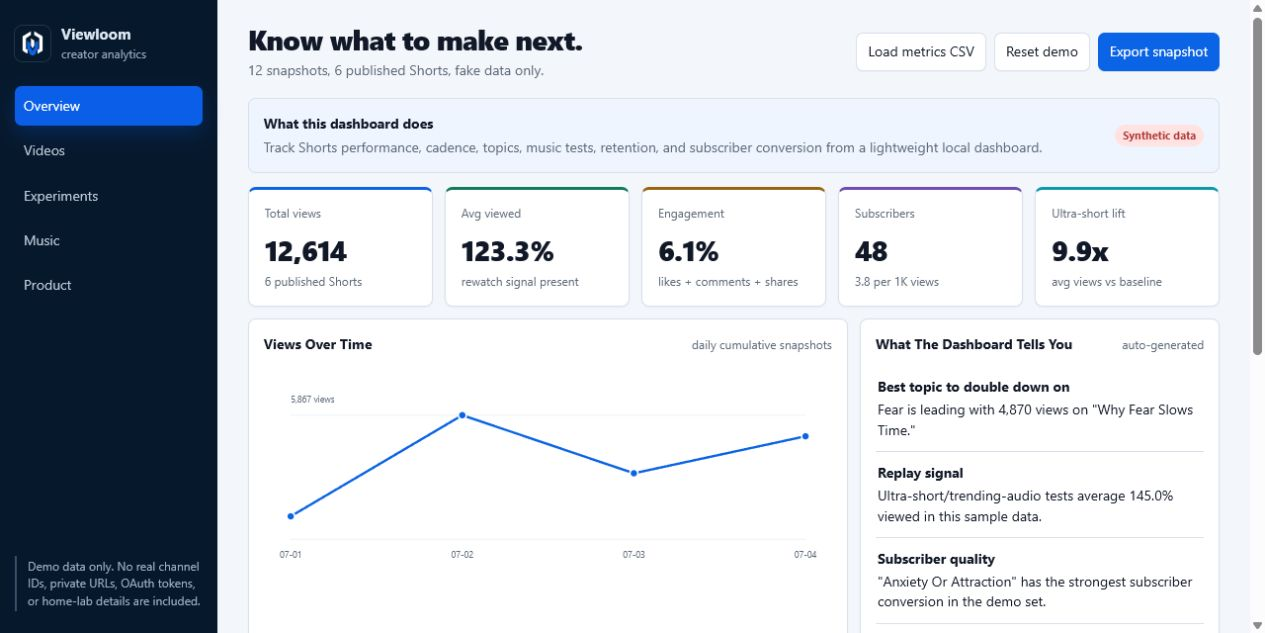
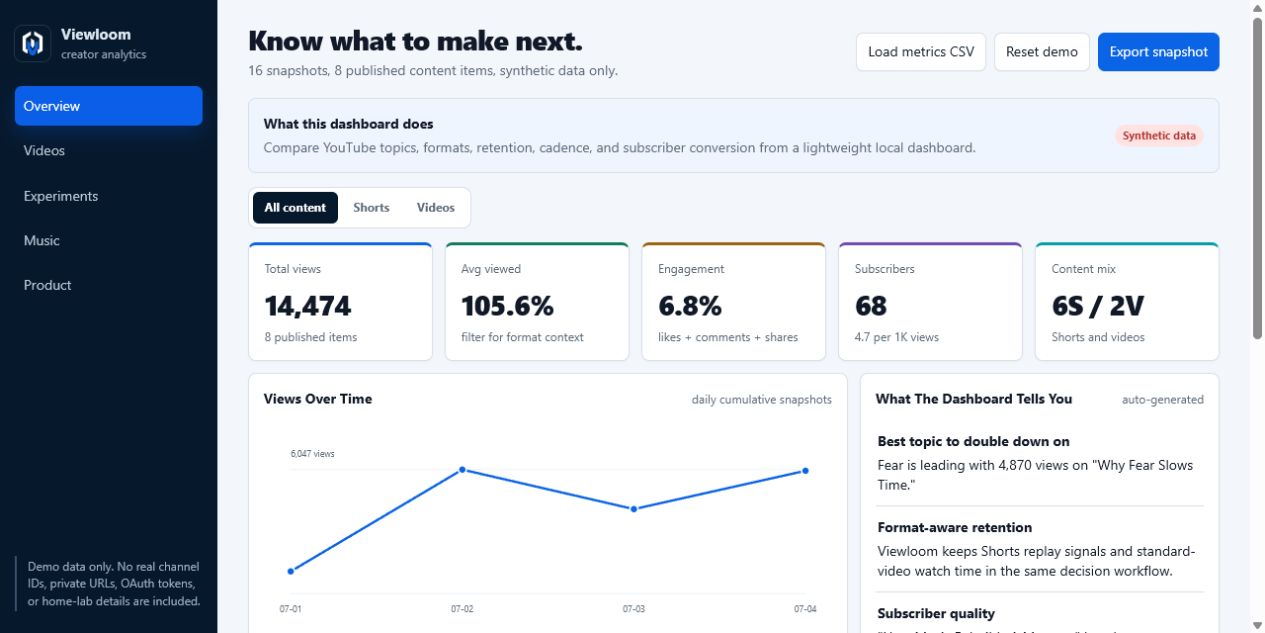
Support Shorts and standard YouTube videos

diff --git a/dashboard/index.html b/dashboard/index.html
@@ -128,6 +128,9 @@
     .kpi-sub { margin-top: 3px; color: var(--muted); font-size: 12px; }
     .tabs { display: none; }
     .tabs.active { display: block; }
+    .content-filter { display: flex; gap: 4px; width: fit-content; margin: 0 0 14px; padding: 4px; border: 1px solid var(--line); border-radius: 9px; background: var(--panel); }
+    .filter-btn { border: 0; border-radius: 6px; padding: 7px 12px; background: transparent; color: var(--muted); cursor: pointer; font-size: 12px; font-weight: 720; }
+    .filter-btn.active { background: var(--nav); color: #fff; }
     table { width: 100%; border-collapse: collapse; font-variant-numeric: tabular-nums; }
     th, td { padding: 10px 11px; border-bottom: 1px solid var(--line); text-align: right; white-space: nowrap; }
     th:first-child, td:first-child, th:nth-child(2), td:nth-child(2) { text-align: left; }
@@ -203,6 +206,8 @@
       .kpi { flex: 0 0 min(78vw, 260px); scroll-snap-align: start; }
       .repo-callout { padding: 13px; }
       .repo-callout .pill { display: none; }
+      .content-filter { width: 100%; }
+      .filter-btn { flex: 1; }
       .bar-row { grid-template-columns: minmax(100px, .9fr) minmax(70px, 1fr) 58px; gap: 7px; }
       .sparkline { height: 190px; min-width: 520px; }
       #trendChart { overflow-x: auto; }
@@ -235,7 +240,7 @@
       <header>
         <div>
           <h1>Know what to make next.</h1>
-          <div class="subtitle" id="subtitle">Demo dashboard using fake Shorts data.</div>
+          <div class="subtitle" id="subtitle">Demo dashboard using synthetic YouTube data.</div>
         </div>
         <div class="actions">
           <label class="file-label">
@@ -250,10 +255,16 @@
       <section class="repo-callout">
         <div>
           <strong>What this dashboard does</strong>
-          <p>Track Shorts performance, cadence, topics, music tests, retention, and subscriber conversion from a lightweight local dashboard.</p>
+          <p>Compare YouTube topics, formats, retention, cadence, and subscriber conversion from a lightweight local dashboard.</p>
         </div>
         <div><span class="pill hot">Synthetic data</span></div>
       </section>
+
+      <div class="content-filter" role="group" aria-label="Content type">
+        <button class="filter-btn active" data-content-filter="all">All content</button>
+        <button class="filter-btn" data-content-filter="short">Shorts</button>
+        <button class="filter-btn" data-content-filter="video">Videos</button>
+      </div>
 
       <section id="overview" class="tabs active">
         <div class="grid kpis" id="kpis"></div>
@@ -280,7 +291,7 @@
             <table>
               <thead>
                 <tr>
-                  <th>ID</th><th>Title</th><th>Status</th><th>Views</th><th>Likes</th><th>Comments</th><th>Subs</th><th>Avg viewed</th><th>Format</th><th>Track</th>
+                  <th>ID</th><th>Title</th><th>Content</th><th>Status</th><th>Views</th><th>Likes</th><th>Comments</th><th>Subs</th><th>Avg viewed</th><th>Format</th><th>Track</th>
                 </tr>
               </thead>
               <tbody id="videoRows"></tbody>
@@ -298,7 +309,7 @@
           <div class="panel pad">
             <div class="panel-head"><h2>Test Hypothesis</h2><span class="note">experiment framework</span></div>
             <div class="insights">
-              <div class="insight"><strong>Ultra-short format</strong><span>Compare 6-8 second text-first/trending-audio Shorts against 12-15 second narration-first baselines.</span></div>
+              <div class="insight"><strong>Format comparison</strong><span>Compare Shorts and standard videos, then isolate length, presentation, hook, and narration experiments within each format.</span></div>
               <div class="insight"><strong>Subscriber conversion</strong><span>Track subscribers gained per 1,000 views instead of only celebrating raw views.</span></div>
               <div class="insight"><strong>Decision support</strong><span>The product does not promise virality; it helps creators see which formats deserve more production volume.</span></div>
             </div>
@@ -315,7 +326,7 @@
           <div class="panel pad">
             <div class="panel-head"><h2>Audio Notes</h2><span class="note">privacy boundary</span></div>
             <div class="insights">
-              <div class="insight"><strong>Trending audio is user-supplied</strong><span>The dashboard tracks track names and outcomes. It does not scrape or bypass the Shorts mobile sound picker.</span></div>
+              <div class="insight"><strong>Audio metadata is user-supplied</strong><span>Track music, narration, and presentation choices without scraping or bypassing YouTube publishing tools.</span></div>
               <div class="insight"><strong>Voice clarity matters</strong><span>Track whether narration stayed clean, masked, or text-only so the creator can compare audio strategies.</span></div>
             </div>
           </div>
@@ -346,15 +357,18 @@
   </div>
 
   <script>
-    const ledgerCsv = `id,status,pillar,title,hook,publish_date,platform_url,length_seconds,format_type,music_type,track_name,track_mood,voice_audibility,cta_variant,notes
-EX-001,published,Human behavior,Why Silence Feels Loud,Silence feels awkward because your brain expects rhythm.,2026-07-01,https://youtube.com/shorts/EXAMPLE001,14,narration_baseline,none,,baseline,clean,question_first,No-music narration baseline.
-EX-002,published,Memory,Why Old Songs Hit Hard,One song can pull a memory back instantly.,2026-07-01,https://youtube.com/shorts/EXAMPLE002,8,ultra_short_trending_audio,trending_youtube_audio,Example Trend 01,nostalgic,clean,follow_daily,Ultra-short trend test.
-EX-003,published,Relationships,Anxiety Or Attraction,A racing heart is not always romance.,2026-07-01,https://youtube.com/shorts/EXAMPLE003,7,ultra_short_trending_audio,trending_youtube_audio,Example Trend 02,romantic tension,text_only,weird_facts,Text-first ultra-short.
-EX-004,published,Intuition,Your Gut Feeling Is Fast Math,Your brain can notice patterns before you explain them.,2026-07-02,https://youtube.com/shorts/EXAMPLE004,15,narration_baseline,royalty_free,Example Library Track,curious,clean,question_first,Longer narration comparison.
-EX-005,published,Body language,Why Eye Contact Feels Intense,Your brain treats eyes as social information.,2026-07-02,https://youtube.com/shorts/EXAMPLE005,8,ultra_short_trending_audio,trending_youtube_audio,Example Trend 01,social tension,clean,follow_daily,Same track as EX-002.
-EX-006,published,Fear,Why Fear Slows Time,Fear can make your brain record more detail.,2026-07-03,https://youtube.com/shorts/EXAMPLE006,7,ultra_short_trending_audio,trending_youtube_audio,Example Trend 03,dark pulse,text_only,weird_facts,Fast caption loop test.
-EX-007,scheduled,Social behavior,Why Compliments Feel Weird,A compliment can clash with how you see yourself.,2026-07-04,,8,ultra_short_trending_audio,trending_youtube_audio,,warm,clean,follow_daily,Ready for publishing.
-EX-008,draft,Memory,Why Smells Unlock Memories,A scent can bring back a place instantly.,,,8,ultra_short_trending_audio,trending_youtube_audio,,nostalgic,clean,question_first,Draft idea.`;
+    const ledgerCsv = `id,content_type,status,pillar,title,hook,publish_date,platform_url,length_seconds,format_type,music_type,track_name,track_mood,voice_audibility,cta_variant,notes
+EX-001,short,published,Human behavior,Why Silence Feels Loud,Silence feels awkward because your brain expects rhythm.,2026-07-01,https://youtube.com/shorts/EXAMPLE001,14,narration_baseline,none,,baseline,clean,question_first,No-music narration baseline.
+EX-002,short,published,Memory,Why Old Songs Hit Hard,One song can pull a memory back instantly.,2026-07-01,https://youtube.com/shorts/EXAMPLE002,8,ultra_short_trending_audio,trending_youtube_audio,Example Trend 01,nostalgic,clean,follow_daily,Ultra-short trend test.
+EX-003,short,published,Relationships,Anxiety Or Attraction,A racing heart is not always romance.,2026-07-01,https://youtube.com/shorts/EXAMPLE003,7,ultra_short_trending_audio,trending_youtube_audio,Example Trend 02,romantic tension,text_only,weird_facts,Text-first ultra-short.
+EX-004,short,published,Intuition,Your Gut Feeling Is Fast Math,Your brain can notice patterns before you explain them.,2026-07-02,https://youtube.com/shorts/EXAMPLE004,15,narration_baseline,royalty_free,Example Library Track,curious,clean,question_first,Longer narration comparison.
+EX-005,short,published,Body language,Why Eye Contact Feels Intense,Your brain treats eyes as social information.,2026-07-02,https://youtube.com/shorts/EXAMPLE005,8,ultra_short_trending_audio,trending_youtube_audio,Example Trend 01,social tension,clean,follow_daily,Same track as EX-002.
+EX-006,short,published,Fear,Why Fear Slows Time,Fear can make your brain record more detail.,2026-07-03,https://youtube.com/shorts/EXAMPLE006,7,ultra_short_trending_audio,trending_youtube_audio,Example Trend 03,dark pulse,text_only,weird_facts,Fast loop test.
+EX-007,short,scheduled,Social behavior,Why Compliments Feel Weird,A compliment can clash with how you see yourself.,2026-07-04,,8,ultra_short_trending_audio,trending_youtube_audio,,warm,clean,follow_daily,Ready for publishing.
+EX-008,short,draft,Memory,Why Smells Unlock Memories,A scent can bring back a place instantly.,,,8,ultra_short_trending_audio,trending_youtube_audio,,nostalgic,clean,question_first,Draft idea.
+EX-009,video,published,Memory,How Music Rebuilds A Moment,Why can three notes return you to a forgotten room?,2026-07-02,https://youtube.com/watch?v=EXAMPLE009,420,visual_explainer,royalty_free,Example Ambient Bed,reflective,clean,subscribe_end_screen,Seven-minute visual explainer.
+EX-010,video,published,Fear,What Fear Does To Your Sense Of Time,Your internal clock changes when survival takes over.,2026-07-03,https://youtube.com/watch?v=EXAMPLE010,610,talking_head_explainer,none,,focused,clean,related_video,Ten-minute talking-head explainer.
+EX-011,video,draft,Human behavior,The Science Of Awkward Silence,What your brain is calculating when nobody speaks.,,,540,visual_explainer,royalty_free,Example Ambient Bed,curious,clean,subscribe_end_screen,Long-form draft.`;
 
     const defaultMetricsCsv = `snapshot_date,id,days_since_publish,views,likes,comments,subscribers_gained,avg_percent_viewed,average_view_duration_seconds,shares,impressions,ctr_percent,music_type,track_name,track_mood,voice_audibility,notes
 2026-07-01,EX-001,0,74,2,0,0,82.0,11.5,0,420,4.3,none,,baseline,clean,Published baseline.
@@ -368,9 +382,14 @@ EX-008,draft,Memory,Why Smells Unlock Memories,A scent can bring back a place in
 2026-07-02,EX-005,0,440,18,3,1,121.0,9.7,5,2100,7.9,trending_youtube_audio,Example Trend 01,social tension,clean,Same track as EX-002.
 2026-07-03,EX-005,1,2050,88,14,8,133.0,10.6,22,8400,10.2,trending_youtube_audio,Example Trend 01,social tension,clean,Track appears repeatable.
 2026-07-03,EX-006,0,710,31,5,3,151.0,10.6,9,3000,9.6,trending_youtube_audio,Example Trend 03,dark pulse,text_only,Fast loop test.
-2026-07-04,EX-006,1,4870,212,31,19,168.0,11.8,57,19800,12.7,trending_youtube_audio,Example Trend 03,dark pulse,text_only,High replay and conversion.`;
[phone redacted],EX-006,1,4870,212,31,19,168.0,11.8,57,19800,12.7,trending_youtube_audio,Example Trend 03,dark pulse,text_only,High replay and conversion.
[phone redacted],EX-009,0,180,14,3,2,46.0,193.2,5,3100,5.8,royalty_free,Example Ambient Bed,reflective,clean,Visual explainer launch.
[phone redacted],EX-009,1,740,49,9,8,51.0,214.2,18,10100,6.4,royalty_free,Example Ambient Bed,reflective,clean,Strong search discovery.
[phone redacted],EX-010,0,260,21,5,3,49.0,298.9,7,3900,6.7,none,,focused,clean,Talking-head launch.
[phone redacted],EX-010,1,1120,83,16,12,54.0,329.4,29,14200,7.9,none,,focused,clean,High watch time and conversion.`;
 
     let metricsCsv = defaultMetricsCsv;
+    let contentFilter = 'all';
 
     function parseCsv(text) {
       const rows = [];
@@ -421,12 +440,14 @@ EX-008,draft,Memory,Why Smells Unlock Memories,A scent can bring back a place in
         const snap = latest.get(video.id) || {};
         return {
           ...video,
+          content_type: video.content_type || (num(video.length_seconds) <= 60 ? 'short' : 'video'),
           views: num(snap.views),
           likes: num(snap.likes),
           comments: num(snap.comments),
           subs: num(snap.subscribers_gained),
           retention: num(snap.avg_percent_viewed),
           duration: num(snap.average_view_duration_seconds),
+          ctr: num(snap.ctr_percent),
           shares: num(snap.shares),
           track_name: snap.track_name || video.track_name,
           music_type: snap.music_type || video.music_type,
@@ -457,12 +478,19 @@ EX-008,draft,Memory,Why Smells Unlock Memories,A scent can bring back a place in
       const baseline = published.filter(v => v.format_type === 'narration_baseline');
       const ultraViews = ultra.reduce((sum, v) => sum + v.views, 0);
       const baselineViews = baseline.reduce((sum, v) => sum + v.views, 0);
+      const shorts = published.filter(v => v.content_type === 'short');
+      const standard = published.filter(v => v.content_type === 'video');
+      const fifth = contentFilter === 'short'
+        ? ['Ultra-short lift', `${baselineViews && ultra.length ? (ultraViews / ultra.length / (baselineViews / baseline.length)).toFixed(1) : 'n/a'}x`, 'avg views vs baseline']
+        : contentFilter === 'video'
+          ? ['Avg CTR', pct(standard.length ? standard.reduce((sum, v) => sum + v.ctr, 0) / standard.length : 0), 'impressions to views']
+          : ['Content mix', `${shorts.length}S / ${standard.length}V`, 'Shorts and videos'];
       const cards = [
-        ['Total views', fmt(totalViews), `${published.length} published Shorts`],
-        ['Avg viewed', pct(avgRetention), avgRetention > 100 ? 'rewatch signal present' : 'completion signal'],
+        ['Total views', fmt(totalViews), `${published.length} published items`],
+        ['Avg viewed', pct(avgRetention), contentFilter === 'all' ? 'filter for format context' : avgRetention > 100 ? 'rewatch signal present' : 'completion signal'],
         ['Engagement', pct(totalViews ? totalEngagement / totalViews * 100 : 0), 'likes + comments + shares'],
         ['Subscribers', fmt(totalSubs), `${(totalViews ? totalSubs / totalViews * 1000 : 0).toFixed(1)} per 1K views`],
-        ['Ultra-short lift', `${baselineViews ? (ultraViews / ultra.length / (baselineViews / baseline.length)).toFixed(1) : 'n/a'}x`, 'avg views vs baseline']
+        fifth
       ];
       document.getElementById('kpis').innerHTML = cards.map(([label, value, sub]) => `
         <div class="panel kpi">
@@ -486,7 +514,7 @@ EX-008,draft,Memory,Why Smells Unlock Memories,A scent can bring back a place in
 
     function renderTopicBars(videos) {
       const rows = [...groupBy(videos.filter(v => v.status === 'published'), v => v.pillar).entries()]
-        .map(([pillar, group]) => ({ label: pillar, value: group.reduce((sum, v) => sum + v.views, 0), sub: `${group.length} Shorts` }))
+        .map(([pillar, group]) => ({ label: pillar, value: group.reduce((sum, v) => sum + v.views, 0), sub: `${group.length} items` }))
         .sort((a, b) => b.value - a.value);
       renderBars('topicBars', rows, 'var(--green)');
     }
@@ -515,7 +543,7 @@ EX-008,draft,Memory,Why Smells Unlock Memories,A scent can bring back a place in
         .map(([track, group]) => ({
           label: track,
           value: group.reduce((sum, v) => sum + v.views, 0),
-          sub: `${group.length} Shorts, ${pct(group.reduce((sum, v) => sum + v.retention, 0) / group.length)} avg viewed`
+          sub: `${group.length} items, ${pct(group.reduce((sum, v) => sum + v.retention, 0) / group.length)} avg viewed`
         }))
         .sort((a, b) => b.value - a.value);
       renderBars('musicBars', rows, 'var(--blue)');
@@ -526,6 +554,7 @@ EX-008,draft,Memory,Why Smells Unlock Memories,A scent can bring back a place in
         <tr>
           <td>${esc(v.id)}</td>
           <td>${esc(v.title)}</td>
+          <td>${esc(v.content_type === 'short' ? 'Short' : 'Video')}</td>
           <td><span class="pill ${esc(v.status)}">${esc(v.status)}</span></td>
           <td>${fmt(v.views)}</td>
           <td>${fmt(v.likes)}</td>
@@ -544,9 +573,15 @@ EX-008,draft,Memory,Why Smells Unlock Memories,A scent can bring back a place in
       const bestSub = [...published].sort((a, b) => (b.views ? b.subs / b.views : 0) - (a.views ? a.subs / a.views : 0))[0];
       const ultra = published.filter(v => v.format_type === 'ultra_short_trending_audio');
       const ultraRet = ultra.length ? ultra.reduce((sum, v) => sum + v.retention, 0) / ultra.length : 0;
+      const avgDuration = published.length ? published.reduce((sum, v) => sum + v.duration, 0) / published.length : 0;
+      const signal = contentFilter === 'short'
+        ? ['Replay signal', `Ultra-short/trending-audio tests average ${pct(ultraRet)} viewed in this sample data.`]
+        : contentFilter === 'video'
+          ? ['Watch-time signal', `Standard videos average ${Math.round(avgDuration / 60)} minutes viewed in this sample data.`]
+          : ['Format-aware retention', 'Viewloom keeps Shorts replay signals and standard-video watch time in the same decision workflow.'];
       const items = [
         ['Best topic to double down on', `${best?.pillar || 'n/a'} is leading with ${fmt(best?.views || 0)} views on "${best?.title || 'n/a'}."`],
-        ['Replay signal', `Ultra-short/trending-audio tests average ${pct(ultraRet)} viewed in this sample data.`],
+        signal,
         ['Subscriber quality', `"${bestSub?.title || 'n/a'}" has the strongest subscriber conversion in the demo set.`],
         ['Product validation point', 'This dashboard turns raw creator data into format, topic, cadence, and audio decisions.']
       ];
@@ -581,21 +616,33 @@ EX-008,draft,Memory,Why Smells Unlock Memories,A scent can bring back a place in
 
     function render() {
       const data = model();
-      document.getElementById('subtitle').textContent = `${data.metrics.length} snapshots, ${data.videos.filter(v => v.status === 'published').length} published Shorts, fake data only.`;
-      renderKpis(data.videos);
-      renderTopicBars(data.videos);
-      renderFormatBars(data.videos);
-      renderCadence(data.videos);
-      renderMusic(data.videos);
-      renderVideos(data.videos);
-      renderInsights(data.videos);
-      renderTrend(data.metrics);
+      const videos = contentFilter === 'all' ? data.videos : data.videos.filter(v => v.content_type === contentFilter);
+      const ids = new Set(videos.map(v => v.id));
+      const metrics = data.metrics.filter(m => ids.has(m.id));
+      const label = contentFilter === 'all' ? 'content items' : contentFilter === 'short' ? 'Shorts' : 'videos';
+      document.getElementById('subtitle').textContent = `${metrics.length} snapshots, ${videos.filter(v => v.status === 'published').length} published ${label}, synthetic data only.`;
+      renderKpis(videos);
+      renderTopicBars(videos);
+      renderFormatBars(videos);
+      renderCadence(videos);
+      renderMusic(videos);
+      renderVideos(videos);
+      renderInsights(videos);
+      renderTrend(metrics);
     }
 
     document.querySelectorAll('.nav-btn').forEach(btn => {
       btn.addEventListener('click', () => {
         document.querySelectorAll('.nav-btn').forEach(b => b.classList.toggle('active', b === btn));
         document.querySelectorAll('.tabs').forEach(tab => tab.classList.toggle('active', tab.id === btn.dataset.tab));
+      });
+    });
+
+    document.querySelectorAll('.filter-btn').forEach(btn => {
+      btn.addEventListener('click', () => {
+        contentFilter = btn.dataset.contentFilter;
+        document.querySelectorAll('.filter-btn').forEach(b => b.classList.toggle('active', b === btn));
+        render();
       });
     });
 

diff --git a/README.md b/README.md
@@ -4,7 +4,7 @@
 
 Viewloom is a public demo of a private-by-default, CSV-powered workspace for creators who want to understand what to make next—not just watch view counts move.
 
-Explore synthetic YouTube Shorts data, compare formats and experiments, and evaluate the self-hosted workflow without connecting an account. No private home-lab details, real channel data, OAuth secrets, internal hostnames, or private network paths are included.
+Explore synthetic YouTube data, compare Shorts and standard videos, and evaluate the self-hosted workflow without connecting an account. No private home-lab details, real channel data, OAuth secrets, internal hostnames, or private network paths are included.
 
 ![Viewloom dashboard overview](assets/viewloom-desktop-demo.png)
 
@@ -15,15 +15,15 @@ Explore synthetic YouTube Shorts data, compare formats and experiments, and eval
 
 </details>
 
-## See The Signal Behind Your Shorts
+## See The Signal Behind Every Upload
 
 Viewloom turns a simple content ledger and performance snapshots into practical comparisons for:
 
-- Shorts publishing cadence
+- Shorts and standard-video publishing cadence
 - views, likes, comments, shares, and subscriber conversion
 - average percent viewed
 - topic/category performance
-- ultra-short vs narration-first format tests
+- format, length, hook, presentation, and narration tests
 - music/audio experiments
 - reusable CSV-based analytics history
 
@@ -40,7 +40,7 @@ The public demo does not:
 - promise viral growth
 - expose any home-lab infrastructure
 
-It uses fake sample data only.
+It uses synthetic sample data only. The included workspace demonstrates a mixed YouTube channel with both Shorts and standard videos.
 
 ## Try The Demo
 

diff --git a/docs/product-validation.md b/docs/product-validation.md
@@ -5,14 +5,14 @@ This early preview should validate demand before building a full paid automation
 ## Target Users
 
 - small YouTube creators
-- Shorts creators testing high-volume publishing
+- creators testing Shorts, standard videos, or both
 - faceless channel operators
 - self-hosted/home-lab users
 - indie creators who want local analytics history
 
 ## Core Question
 
-Do creators want a self-hosted dashboard that tracks publishing cadence, Shorts format tests, music/audio experiments, and subscriber conversion?
+Do creators want a self-hosted YouTube workspace that compares topics, formats, retention, cadence, creative experiments, and subscriber conversion across Shorts and standard videos?
 
 ## Test Channels
 

diff --git a/docs/youtube-api.md b/docs/youtube-api.md
@@ -7,6 +7,7 @@ The paid/pro version may include a helper that:
 - uses user-owned OAuth credentials
 - pulls public video statistics
 - pulls available YouTube Analytics API metrics
+- classifies Shorts and standard videos so each format can use appropriate comparisons
 - writes daily CSV snapshots
 - never stores credentials in the repository
 